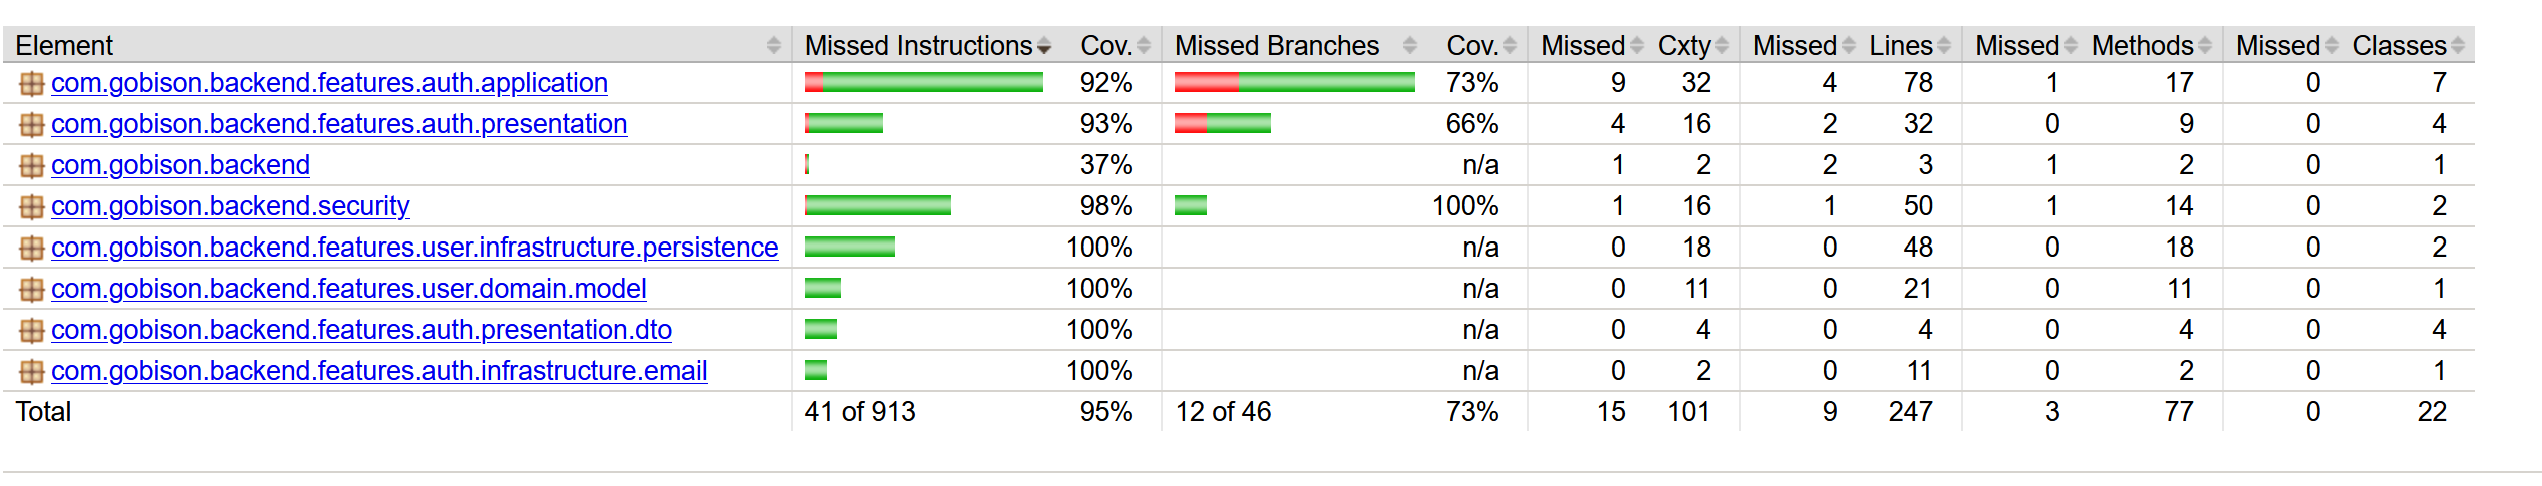
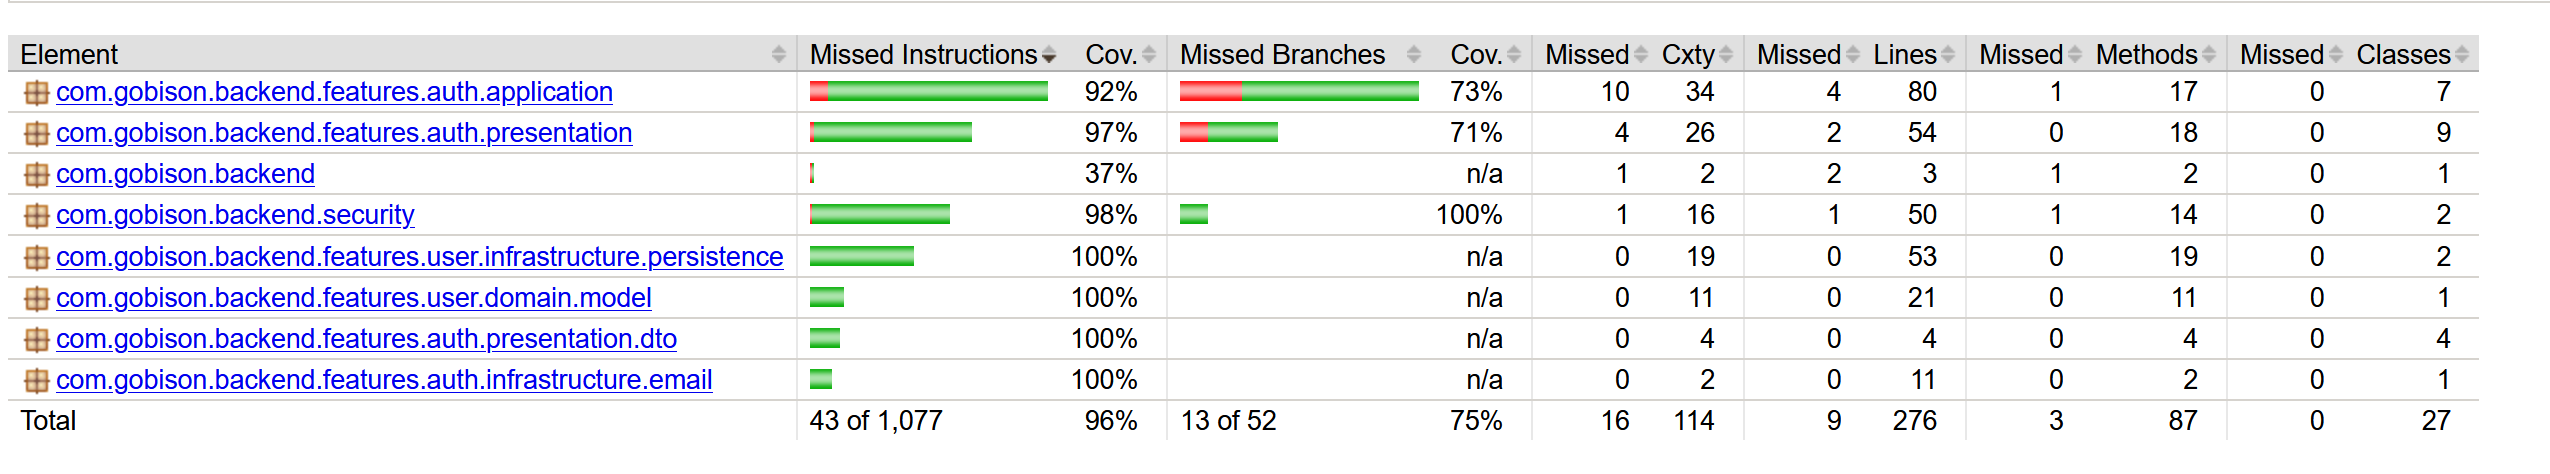
updated backend coverage again

Changed region(s): [[0.0, 0.0, 1.0, 0.9156], [0.0, 0.9451, 1.0, 0.9747]]

diff --git a/docs/sprints/sprint1/Sprint1.md b/docs/sprints/sprint1/Sprint1.md
@@ -8,6 +8,7 @@ We have also deployed our application [here](https://gobison.popicraft.net/)
 ## Completed Work
 - Account creation
 - Account verification
+- Login
 - Database integration
 - Basic CI/CD pipeline
 - Live deployment
@@ -65,10 +66,10 @@ The pipelines will do the following:
 
 Our team is particularly proud of the frontend design of our application. We feel that we have created an interface that looks and feels like a real application that students could use in their day-to-day lives. Throughout the design process, our frontend team focused on making the application visually appealing, intuitive, and easy to navigate. Additionally, by choosing to use Flutter it allowed us to develop an application that can run on both mobile devices and web browsers. This flexibility is especially valuable because students may access the application in different situations, whether they are using their phones while walking around campus or accessing it through a web browser on their laptops. We are proud of the effort our team has put into creating an interface that resembles a real-world application rather than a basic academic assignment
 
-One area which our team feels could have been improved was initial database setup. Schema changes had to be made during the sprint, and it would have been much easier if we had better established everything needed from our database tables at the beginning of the iteration. These changes then required team members to change multiple classes and tests, which slowed our progress throughout this sprint.
+One area which our team feels could have been improved was initial database setup. Schema changes had to be made during the sprint, and it would have been much easier if we had better established everything needed from our database tables at the beginning of the iteration. These changes then required team members to change multiple classes and tests, which slowed our progress throughout this sprint. We also believe that we could improve our communication and time management skills in the next sprint, as this held us back in the days leading up to the deadline.
 
 Our team focused on testing during and after implementation. Unit tests were created when classes for a particular feature were completed, and integration tests were created after all layers of a feature were complete. Our team doesn’t think a more test-driven approach would have made the sprint easier or harder, as our current testing approach worked well this iteration.
 
 ## Known Issues
-One issue that the team knows of is that we dont have login logic implented, despite having a login page. This will be addressed in sprint 2.
+One issue that the team knows of is that users are not able to log out once they've logged in. So after account registration, if you want to test logging in, you need to restart this app. This will be fixed in sprint 2. 
 
